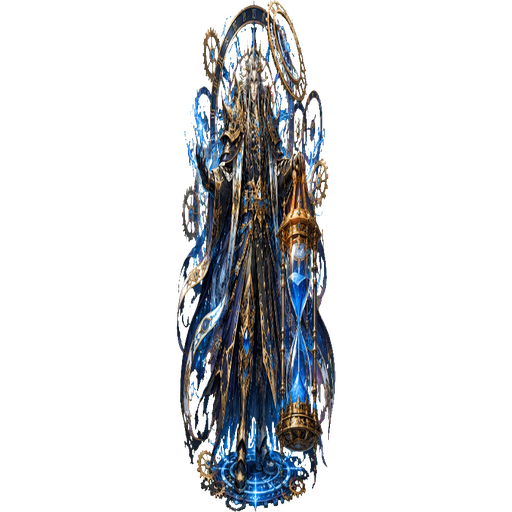
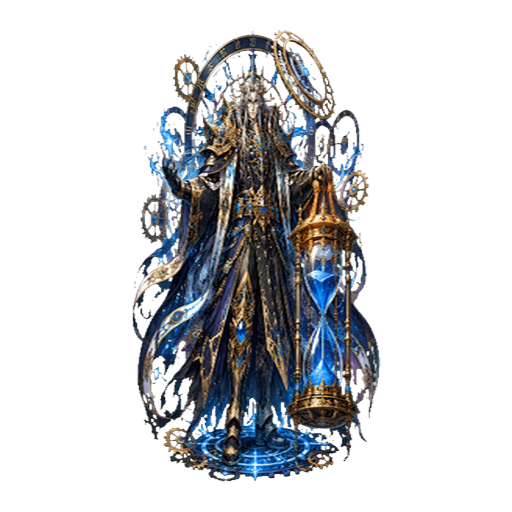
god-gacha: LR3体の縦伸び修正、割引廃止(100連=500/1000連=5000)、ダブり還元を減らし石増殖を修正

diff --git a/god-gacha/index.html b/god-gacha/index.html
@@ -4,7 +4,7 @@
 <meta charset="utf-8">
 <meta name="viewport" content="width=device-width, initial-scale=1, viewport-fit=cover, maximum-scale=1, user-scalable=no">
 <title>ゴッドガチャ ∞</title>
-<link rel="stylesheet" href="style.css?v=8">
+<link rel="stylesheet" href="style.css?v=9">
 </head>
 <body>
 
@@ -40,12 +40,12 @@
         <span class="pb-tag">SR以上 確定</span>
       </button>
       <button id="btnMega" class="pull-btn mega">
-        <span class="pb-t">100連</span><span class="pb-c">💎 450</span>
-        <span class="pb-tag">UR以上確定・10%OFF</span>
+        <span class="pb-t">100連</span><span class="pb-c">💎 500</span>
+        <span class="pb-tag">UR以上 確定</span>
       </button>
       <button id="btnUltra" class="pull-btn ultra">
-        <span class="pb-t">1000連</span><span class="pb-c">💎 4,000</span>
-        <span class="pb-tag">LR以上確定・20%OFF</span>
+        <span class="pb-t">1000連</span><span class="pb-c">💎 5,000</span>
+        <span class="pb-tag">LR以上 確定</span>
       </button>
     </div>
     <div class="regen-line" id="regen">—</div>
@@ -131,10 +131,10 @@
   <!-- トースト -->
   <div id="toast" class="toast"></div>
 
-  <script src="js/data.js?v=8"></script>
-  <script src="js/gacha.js?v=8"></script>
-  <script src="services.js?v=8"></script>
-  <script src="iap.js?v=8"></script>
-  <script src="js/app.js?v=8"></script>
+  <script src="js/data.js?v=9"></script>
+  <script src="js/gacha.js?v=9"></script>
+  <script src="services.js?v=9"></script>
+  <script src="iap.js?v=9"></script>
+  <script src="js/app.js?v=9"></script>
 </body>
 </html>

diff --git a/god-gacha/js/gacha.js b/god-gacha/js/gacha.js
@@ -15,10 +15,10 @@
     MULTI_COUNT: 10,
     MULTI_FLOOR: "SR",         // 10連はSR以上1体確定
     MEGA_COUNT: 100,           // 100連
-    COST_MEGA: 450,            // 100連コスト（10%OFF）
+    COST_MEGA: 500,            // 100連コスト（割引なし＝保証が価値）
     MEGA_FLOOR: "UR",          // 100連はUR以上1体確定
     ULTRA_COUNT: 1000,         // 1000連
-    COST_ULTRA: 4000,          // 1000連コスト（20%OFF）
+    COST_ULTRA: 5000,          // 1000連コスト（割引なし＝保証が価値）
     ULTRA_FLOOR: "LR",         // 1000連はLR以上1体確定
     // 無料回復（プロト用に速め。実機ではゆっくりに調整）
     REGEN_PER: 1,              // 回復量
@@ -28,7 +28,8 @@
     SOFT_PITY_SSR: 50,         // SSR以上が連続で出ないとき、N連目で確定
     HARD_PITY_UR: 100,         // 天井：UR以上をN連目で確定
     // ダブり還元（既所持を引いたら神石に変換）
-    DUP_REFUND: { N:1, R:2, SR:5, SSR:15, UR:40, LR:120, GR:400, XR:100000 },
+    // 期待還元は引きコストの4割未満に抑える（増殖防止。1000連でも必ず目減りする）
+    DUP_REFUND: { N:1, R:1, SR:2, SSR:5, UR:15, LR:50, GR:200, XR:100000 },
 
     // --- ガチャ玉（演出用・最低保証テーザー）---
     // 結果レア度→玉の色。色を見れば最低ランクが分かる（赤=SSR以上, 金=UR以上, 虹=LR以上）。